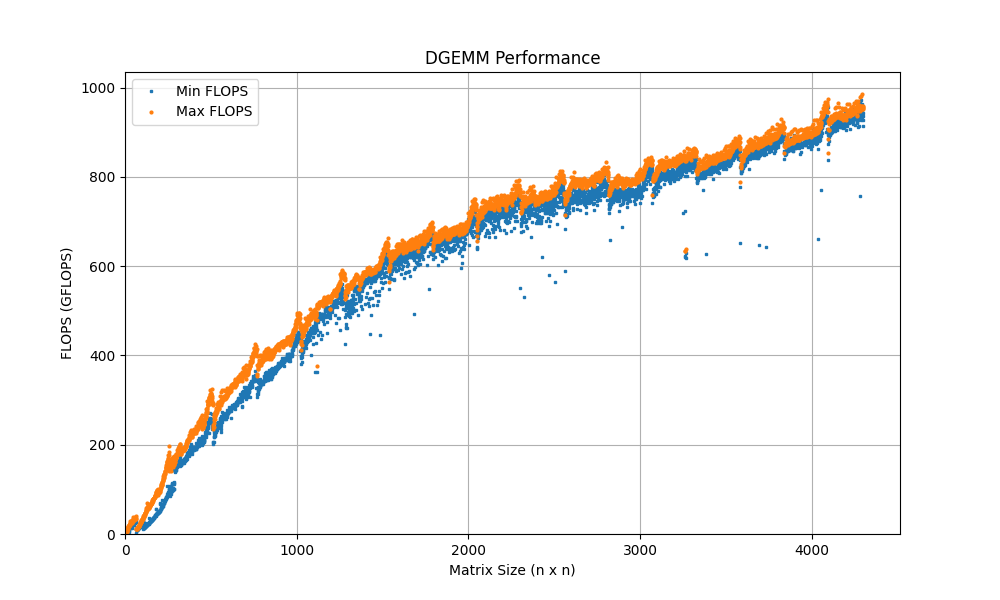
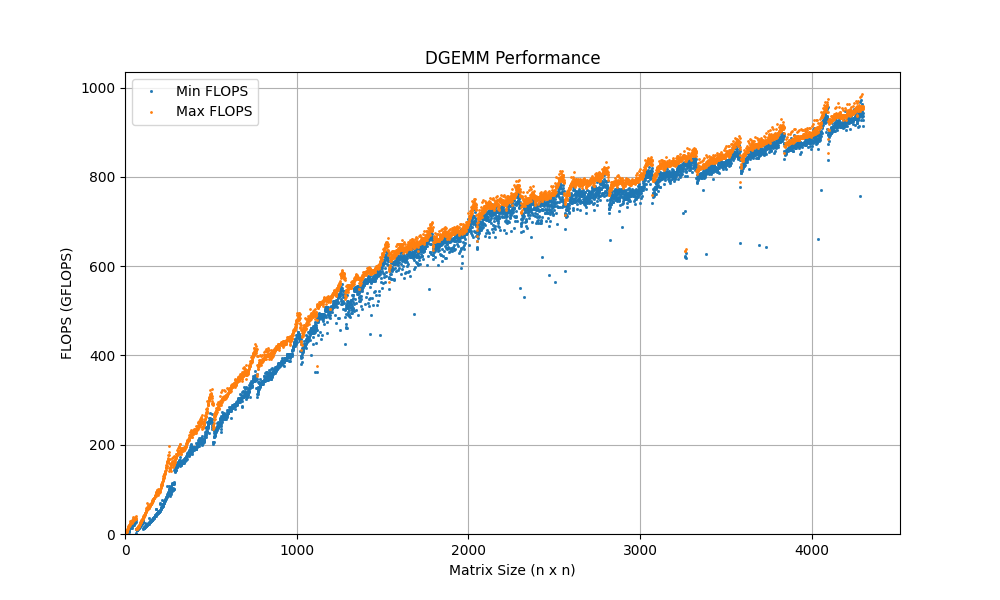
.

Changed region(s): [[0.186, 0.15, 0.868, 0.75], [0.155, 0.75, 0.186, 0.84], [0.124, 0.84, 0.155, 0.9]]

diff --git a/dgemm_benchmark/dgemm_benchmark_plot.py b/dgemm_benchmark/dgemm_benchmark_plot.py
@@ -13,8 +13,8 @@ df["minflops"] /= 1000
 
 # プロットの作成
 plt.figure(figsize=(10, 6))
-plt.plot(df["n"], df["minflops"], label="Min FLOPS", marker='s', markersize=2, linestyle='None')
-plt.plot(df["n"], df["maxflops"], label="Max FLOPS", marker='o', markersize=2, linestyle='None')
+plt.plot(df["n"], df["minflops"], label="Min FLOPS", marker='s', markersize=1, linestyle='None')
+plt.plot(df["n"], df["maxflops"], label="Max FLOPS", marker='o', markersize=1, linestyle='None')
 plt.xlabel("Matrix Size (n x n)")
 plt.ylabel("FLOPS (GFLOPS)")
 plt.title("DGEMM Performance")
